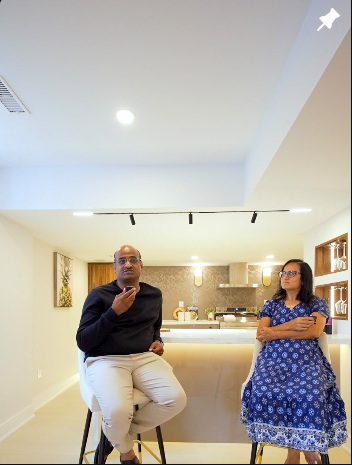
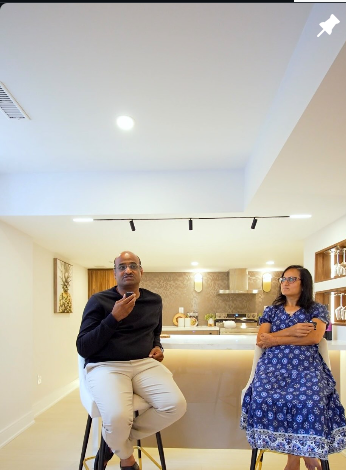
Update Instagram thumbnail, embed Facebook video iframe and update Instagram links to new post

diff --git a/index.html b/index.html
@@ -17,7 +17,7 @@
   <link rel="stylesheet" href="styles-1.css" />
   <link rel="stylesheet" href="styles-2.css" />
   <link rel="stylesheet" href="styles-3.css" />
-  <link rel="stylesheet" href="styles-clean.css?v=31" />
+  <link rel="stylesheet" href="styles-clean.css?v=32" />
 </head>
 <body class="is-loading">
   <div class="page-loader" aria-hidden="true"><div class="loader-inner"><span class="loader-kicker">Yours Legal Basement</span><div class="loader-mark"><span>YOURS</span><strong>LEGAL BASEMENT</strong></div><div class="loader-line"><i></i></div><small>Design · Renovate · Finish</small></div></div>
@@ -140,7 +140,7 @@
             <a class="button button-dark magnetic instagram-follow-button" href="https://www.instagram.com/yourslegalbasement/?hl=en" target="_blank" rel="noopener noreferrer">
               <b class="button-instagram-icon"><svg viewBox="0 0 24 24" aria-hidden="true"><rect x="3.2" y="3.2" width="17.6" height="17.6" rx="5.2"></rect><circle cx="12" cy="12" r="4.1"></circle><circle cx="17.45" cy="6.65" r="1.05" class="instagram-dot"></circle></svg></b><span>Follow on Instagram</span><i>↗</i>
             </a>
-            <a class="instagram-post-link" href="https://www.instagram.com/reel/DdW5MXEqON9/?utm_source=ig_web_copy_link&stkn=MzRlODBiNWFlZA==" target="_blank" rel="noopener noreferrer">Watch featured reel <span>↗</span></a>
+            <a class="instagram-post-link" href="https://www.instagram.com/p/DczpdQLKlwn/?hl=en" target="_blank" rel="noopener noreferrer">Watch featured reel <span>↗</span></a>
           </div>
         </div>
 
@@ -170,7 +170,7 @@
             </div>
 
             <div class="instagram-embed-shell" data-reel-shell>
-              <img class="phone-thumbnail" src="assets/insta-thumbnail.png" alt="Instagram Reel thumbnail — finished basement showcase" loading="lazy" decoding="async" />
+              <img class="phone-thumbnail" src="assets/insta-thumbnail.png" alt="Instagram Reel thumbnail" loading="lazy" decoding="async" />
               <button type="button" class="ylb-reel-center-control" aria-label="Play Instagram Reel" aria-pressed="false">
                 <span class="ylb-reel-center-icon" aria-hidden="true">▶</span>
               </button>
@@ -196,7 +196,7 @@
               </iframe>
             </div>
 
-            <a class="instagram-device-footer" href="https://www.instagram.com/reel/DdW5MXEqON9/?utm_source=ig_web_copy_link&stkn=MzRlODBiNWFlZA==" target="_blank" rel="noopener noreferrer">
+            <a class="instagram-device-footer" href="https://www.instagram.com/p/DczpdQLKlwn/?hl=en" target="_blank" rel="noopener noreferrer">
               <span><b><svg viewBox="0 0 24 24" aria-hidden="true"><rect x="3.2" y="3.2" width="17.6" height="17.6" rx="5.2"></rect><circle cx="12" cy="12" r="4.1"></circle><circle cx="17.45" cy="6.65" r="1.05" class="instagram-dot"></circle></svg></b> Watch original reel on Instagram</span><i>↗</i>
             </a>
           </div>
@@ -207,7 +207,7 @@
               <span class="facebook-device-menu">•••</span>
             </div>
             <div class="facebook-embed-shell" style="position:relative;overflow:hidden;">
-              <img class="phone-thumbnail" src="assets/fb-thumbnail.png" alt="Facebook Reel thumbnail — we are happy" loading="lazy" decoding="async" />
+              <iframe src="https://www.facebook.com/plugins/video.php?height=476&href=https%3A%2F%2Fwww.facebook.com%2Freel%2F1928343987771014%2F&show_text=false&width=267&t=0" width="267" height="476" style="border:none;overflow:hidden;width:100%;height:100%;position:absolute;inset:0;" scrolling="no" frameborder="0" allowfullscreen="true" allow="autoplay; clipboard-write; encrypted-media; picture-in-picture; web-share" allowFullScreen="true"></iframe>
             </div>
             <a class="facebook-device-footer" href="https://www.facebook.com/reel/1928343987771014/" target="_blank" rel="noopener noreferrer">
               <span><b>f</b> Watch original Reel on Facebook</span><i>↗</i>

diff --git a/styles-clean.css b/styles-clean.css
@@ -3997,6 +3997,17 @@ button,a,input,select,textarea{min-width:0}
   box-sizing:border-box!important;
 }
 
+.social-phone-stage .facebook-embed-shell iframe{
+  position:absolute!important;
+  inset:0!important;
+  width:100%!important;
+  height:100%!important;
+  border:none!important;
+  overflow:hidden!important;
+  z-index:2!important;
+  pointer-events:auto!important;
+}
+
 /* ---- Thumbnail images inside phone screens ---- */
 .phone-thumbnail{
   position:absolute!important;
